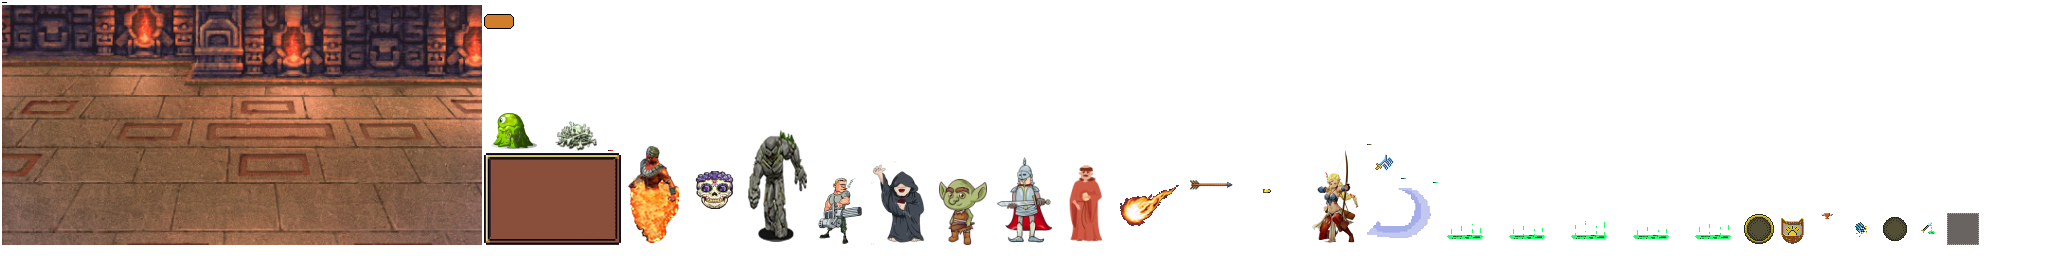
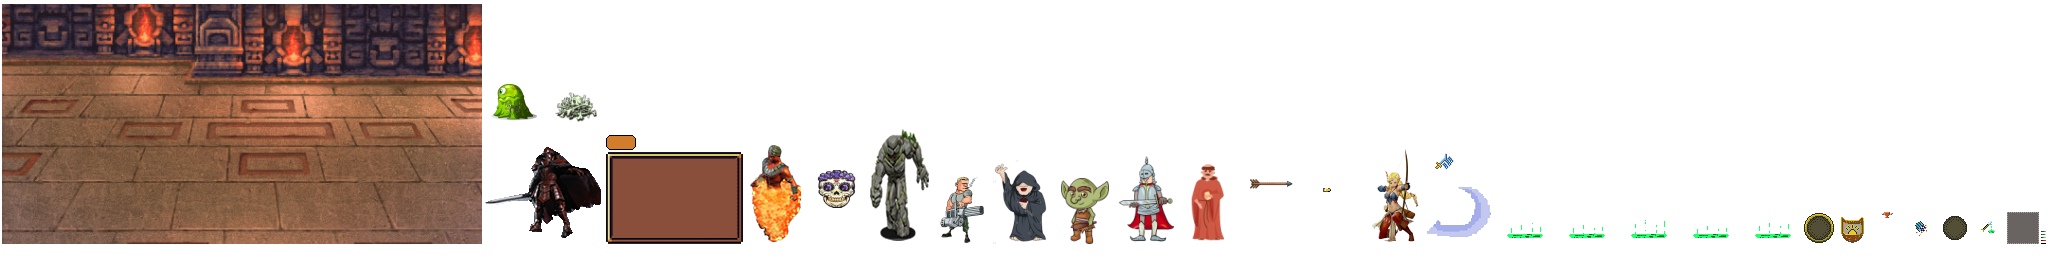
add blood knight boss

diff --git a/android/battle/src/main/java/com/game7th/battle/unit/UnitFactory.kt b/android/battle/src/main/java/com/game7th/battle/unit/UnitFactory.kt
@@ -140,6 +140,29 @@ object UnitFactory {
                 }
                 result
             }
+            UnitType.BOSS_BLOOD_KNIGHT -> {
+                val hp = balance.boss_blood_knight.hp.let { it.f + it.m * level + exp(it.k * level) }.toInt()
+                val result = UnitStats(skin = "personage_boss_blood_knight", level = level, health = CappedStat(hp, hp))
+                result += ability {
+                    ticker {
+                        ticksToTrigger = 3
+                        body = { battle, unit ->
+                            val damage = balance.boss_blood_knight.damage.o * (exp(balance.boss_blood_knight.damage.k * unit.stats.level) + balance.boss_blood_knight.damage.f + balance.boss_blood_knight.damage.m * unit.stats.level)
+                            if (damage > 0) {
+                                val target = battle.findClosestAliveEnemy(unit)
+                                target?.let { target ->
+                                    battle.notifyAttack(unit, target)
+                                    val result = battle.processDamage(target, unit, DamageVector(damage.toInt(), 0, 0))
+                                    if (result.status != DamageProcessStatus.DAMAGE_EVADED) {
+                                        battle.processHeal(unit, damage * battle.balance.boss_blood_knight.healPercentage)
+                                    }
+                                }
+                            }
+                        }
+                    }
+                }
+                result
+            }
             UnitType.FLAME_ELEMENT -> {
                 val hp = balance.fire_element.hp.let { it.f + it.m * level + exp(it.k * level) }.toInt()
                 val result = UnitStats(skin = "personage_fire_element", level = level, health = CappedStat(hp, hp))

diff --git a/android/battle/src/main/java/com/game7th/battle/SwipeBattle.kt b/android/battle/src/main/java/com/game7th/battle/SwipeBattle.kt
@@ -99,12 +99,13 @@ class SwipeBattle(val balance: SwipeBalance) {
 
     private suspend fun generateNpcs(config: BattleConfig) {
         events.send(BattleEvent.NewWaveEvent(wave))
+        val padding = if (config.waves[wave].size == 1) 2 else 0
         config.waves[wave].withIndex().forEach {
             val unitStats = UnitFactory.produce(it.value.name, balance, it.value.level)
             unitStats?.let { stats ->
-                val unit = BattleUnit(newPersonageId(), 7 - it.index, stats, Team.RIGHT)
+                val unit = BattleUnit(newPersonageId(), 7 - it.index - padding, stats, Team.RIGHT)
                 units.add(unit)
-                events.send(BattleEvent.CreatePersonageEvent(unit.toViewModel(), 7 - it.index))
+                events.send(BattleEvent.CreatePersonageEvent(unit.toViewModel(), 7 - it.index - padding))
             }
         }
     }

diff --git a/android/battle/src/main/java/com/game7th/battle/balance/SwipeBalance.kt b/android/battle/src/main/java/com/game7th/battle/balance/SwipeBalance.kt
@@ -63,6 +63,12 @@ data class EarthElementBalance(
         val hp: HpBalance
 )
 
+data class BossBloodKnightBalance(
+        val damage: ExponentialDamageBalance,
+        val hp: HpBalance,
+        val healPercentage: Float
+)
+
 data class GladiatorBalance(
         val c: Int,
         val k: Float,
@@ -96,6 +102,7 @@ data class SwipeBalance(
         val citadel_warlock: CitadelWarlockBalance,
         val fire_element: FireElementBalance,
         val earth_element: EarthElementBalance,
+        val boss_blood_knight: BossBloodKnightBalance,
         val gladiator: GladiatorBalance,
         val poison_archer: PoisonArcherBalance,
         val gunner: GunnerBalance

diff --git a/android/metagame/src/main/java/com/game7th/metagame/unit/UnitType.kt b/android/metagame/src/main/java/com/game7th/metagame/unit/UnitType.kt
@@ -21,6 +21,7 @@ enum class UnitType {
         CITADEL_WARLOCK -> "personage_citadel_warlock"
         FLAME_ELEMENT -> "personage_fire_element"
         EARTH_ELEMENT -> "personage_earth_element"
+        BOSS_BLOOD_KNIGHT -> "personage_boss_blood_knight"
         else -> "personage_dead"
     }
 }
